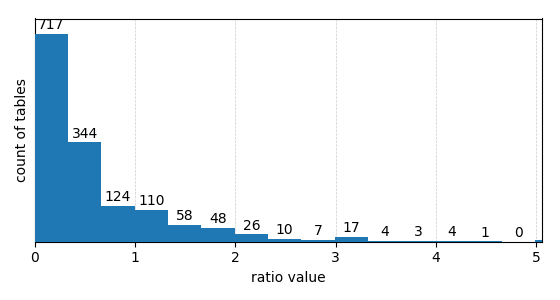
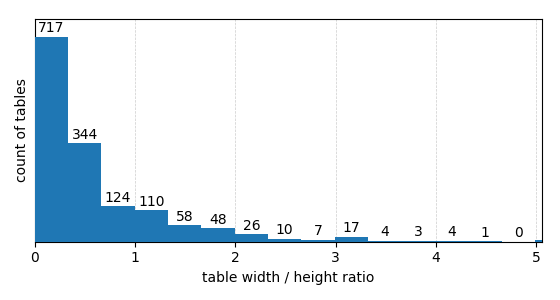
created oerientation graph

diff --git a/src/graph/HorizontalVerticalOrientationGraph.py b/src/graph/HorizontalVerticalOrientationGraph.py
@@ -1,0 +1,105 @@
+import plotly.tools as tls
+import pandas as pd
+import matplotlib.pyplot as plt
+import numpy as np
+import seaborn as sns
+from matplotlib.pyplot import gca
+
+
+class HorizontalVerticalOrientationGraph:
+    count_tables = []
+
+    def __init__(self, dbconnector):
+        self.dbconnector = dbconnector
+        self.height = self._getOrientation()
+
+    def draw(self):
+        plt.clf()
+        plt.cla()
+        plt.figure(figsize=[5.6, 3])
+        # plt.xlim([0, 10])
+        plt.ylim([0, 350])
+        plt.xticks([])
+        plt.yticks([])
+
+        plt.ylabel('count of tables')
+
+
+        # Choose the names of the bars
+        ax = plt.bar([1,2,3], self.height.values[0], zorder=3)
+
+
+        rects = ax.patches[:3]
+        labels = [int(h.get_height()) for h in ax.patches][:3]
+        plt.xticks([1,2,3], ['horizontal', 'vertical', 'both'])
+
+
+
+        # numbers on bars
+        for rect, label in zip(rects, labels):
+            height = rect.get_height()
+            plt.text(rect.get_x() + rect.get_width() / 2, height + 5, label,
+                     ha='center', va='bottom')
+
+        plt.tight_layout()
+
+        # plt.show()
+        plt.savefig('images/orientation_of_tables_in_sheet.png')
+
+    def _getOrientation(self):
+        sql = '''with first_table as (
+            Select 
+                min(first_row * first_column), first_row, last_row, first_column, 
+                last_column, file_name, table_name, sheet_name
+            from tables
+            group by sheet_name, file_name
+            order by file_name),
+            
+            table_join as(
+            select 
+                t.first_row as t1_first_row, 
+                t.first_column as t1_first_column, 
+                t.last_row as t1_last_row, 
+                t.last_column as t1_last_column,
+                ft.first_row as t2_first_row, 
+                ft.first_column as t2_first_column, 
+                ft.last_row as t2_last_row,
+                ft.last_column as t2_last_column,
+                ft.sheet_name, 
+                ft.file_name
+            from tables t
+            inner join first_table ft
+            on t.file_name=ft.file_name and t.sheet_name = ft.sheet_name
+            where t.table_name != ft.table_name),
+            
+             temp as(
+            select 
+            case 
+                WHEN 
+                    t1_first_column >  t2_last_column
+                then 1
+                else 0
+            end as horizontal,
+            case 
+                WHEN 
+                    t1_first_row > t2_last_row
+                then 1
+                else 0
+            end as vertical,
+            case 
+                when	
+                    t1_first_row > t2_last_row and 
+                    t1_first_column >  t2_last_column
+                    then 1
+                    else 0 
+            end as horizontal_vertical,
+            file_name,
+            sheet_name
+            from table_join)
+            
+            select sum(horizontal), sum(vertical), sum(horizontal_vertical)
+            from temp
+        '''
+        result = self.dbconnector.execute(sql)
+        print(pd.DataFrame(result))
+        return pd.DataFrame(result)

diff --git a/src/graph/GraphManager.py b/src/graph/GraphManager.py
@@ -2,9 +2,9 @@ from src.graph.Table_per_Sheet_Graph import Table_per_Sheet_Graph
 from src.graph.TableStats import TableStats
 from src.graph.Sheets_With_Label_Graph import Sheets_With_Label_Graph
 from src.graph.Visible_Cells_per_Table_Graph import Visible_Cells_per_Table_Graph
-from src.graph.Density_Graph import Density_Graph
 from src.graph.Coverage_Graph import Coverage_Graph
 from src.graph.Width_Height_Ratio_Graph import Width_Height_Ratio_Graph
+from src.graph.HorizontalVerticalOrientationGraph import HorizontalVerticalOrientationGraph
 
 class GraphManager:
     graphsForDrawing = []
@@ -17,12 +17,12 @@ class GraphManager:
         tableStats = TableStats(dbconnector)
         labelCountGraph = Sheets_With_Label_Graph(dbconnector)
         hiddenCellsGraph = Visible_Cells_per_Table_Graph(dbconnector)
-        densityGraph = Density_Graph(dbconnector)
         coverageGraph = Coverage_Graph(dbconnector)
         widthHeightGraph = Width_Height_Ratio_Graph(dbconnector)
+        orientationGraph = HorizontalVerticalOrientationGraph(dbconnector)
 
 
-        self.graphsForDrawing = [ tableCountGraph, labelCountGraph, hiddenCellsGraph, densityGraph, coverageGraph, widthHeightGraph, tableStats ]
+        self.graphsForDrawing = [ tableCountGraph, labelCountGraph, hiddenCellsGraph, coverageGraph, widthHeightGraph, orientationGraph,  tableStats ]
 
     def draw(self):
         for graph in self.graphsForDrawing:

diff --git a/src/graph/Sheets_With_Label_Graph.py b/src/graph/Sheets_With_Label_Graph.py
@@ -8,7 +8,6 @@ class Sheets_With_Label_Graph:
     count_tables = []
 
     def __init__(self, dbconnector):
-        self.title = 'number of tables per sheet'
         self.dbconnector = dbconnector
         self.labelCount = self._getLabelCount()
 
@@ -26,7 +25,7 @@ class Sheets_With_Label_Graph:
 
         plt.xlabel('labels')
         plt.ylabel('count of spreadsheets')
-        plt.ylim([0,950])
+        plt.ylim([0,1000])
         plt.xticks(y_pos, bars, rotation=40, horizontalalignment='right')
         plt.yticks([])
         plt.grid(color='#cccccc', linestyle='--', linewidth=0.5, zorder=0)

diff --git a/src/graph/Coverage_Graph.py b/src/graph/Coverage_Graph.py
@@ -16,9 +16,10 @@ class Coverage_Graph:
         plt.cla()
         plt.figure(figsize= [5.6, 3])
         #plt.xlim([0,1.1])
+        plt.ylim([0,810])
         plt.yticks([])
-        plt.xlabel('')
-        plt.ylabel('')
+        plt.xlabel('visible filled cells in table / total ratio')
+        plt.ylabel('count of spreadsheets')
 
         plt.xticks([ 0, .1, .2, .3, .4, .5, .6, .7, .8, .9, 1])
         plt.grid(color='#cccccc', linestyle='--', linewidth=0.5, zorder=0)

diff --git a/src/graph/Visible_Cells_per_Table_Graph.py b/src/graph/Visible_Cells_per_Table_Graph.py
@@ -15,11 +15,11 @@ class Visible_Cells_per_Table_Graph:
         plt.clf()
         plt.cla()
         plt.figure(figsize= [5.6, 3])
-        plt.xlabel('')
-        plt.ylabel('')
+        plt.xlabel('visible cells / all cells per table ratio')
+        plt.ylabel('count of tables')
 
         #plt.xlim([0,1])
-        plt.ylim([0,680])
+        plt.ylim([0,690])
         plt.xticks([0, .1, .2, .3, .4, .5, .6, .7, .8, .9, 1])
         plt.yticks([])
 

diff --git a/src/graph/Width_Height_Ratio_Graph.py b/src/graph/Width_Height_Ratio_Graph.py
@@ -17,8 +17,8 @@ class Width_Height_Ratio_Graph:
         plt.cla()
         plt.figure(figsize=[5.6, 3])
         plt.xlim([0, 5.05])
-        plt.ylim([0,770])
-        plt.xlabel('ratio value')
+        plt.ylim([0,780])
+        plt.xlabel('table width / height ratio')
         plt.ylabel('count of tables')
 
        # plt.xticks(np.arange(0, 2, step=0.2))
